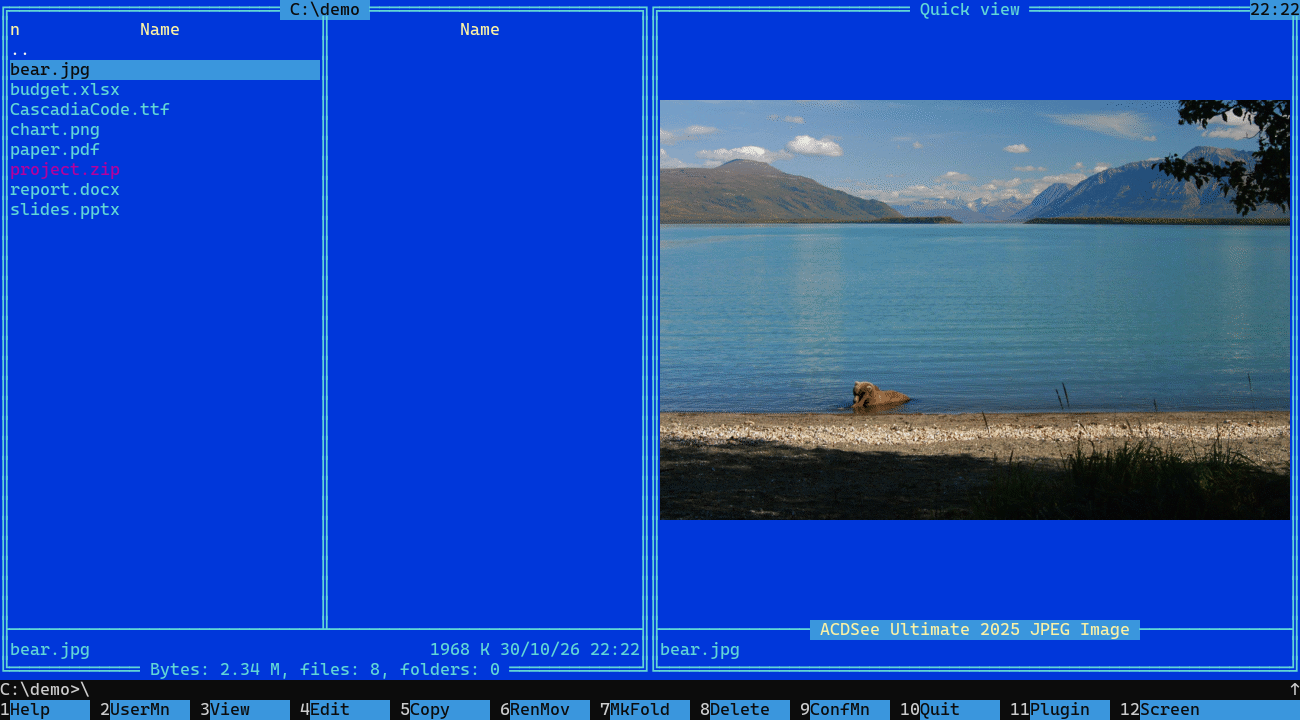
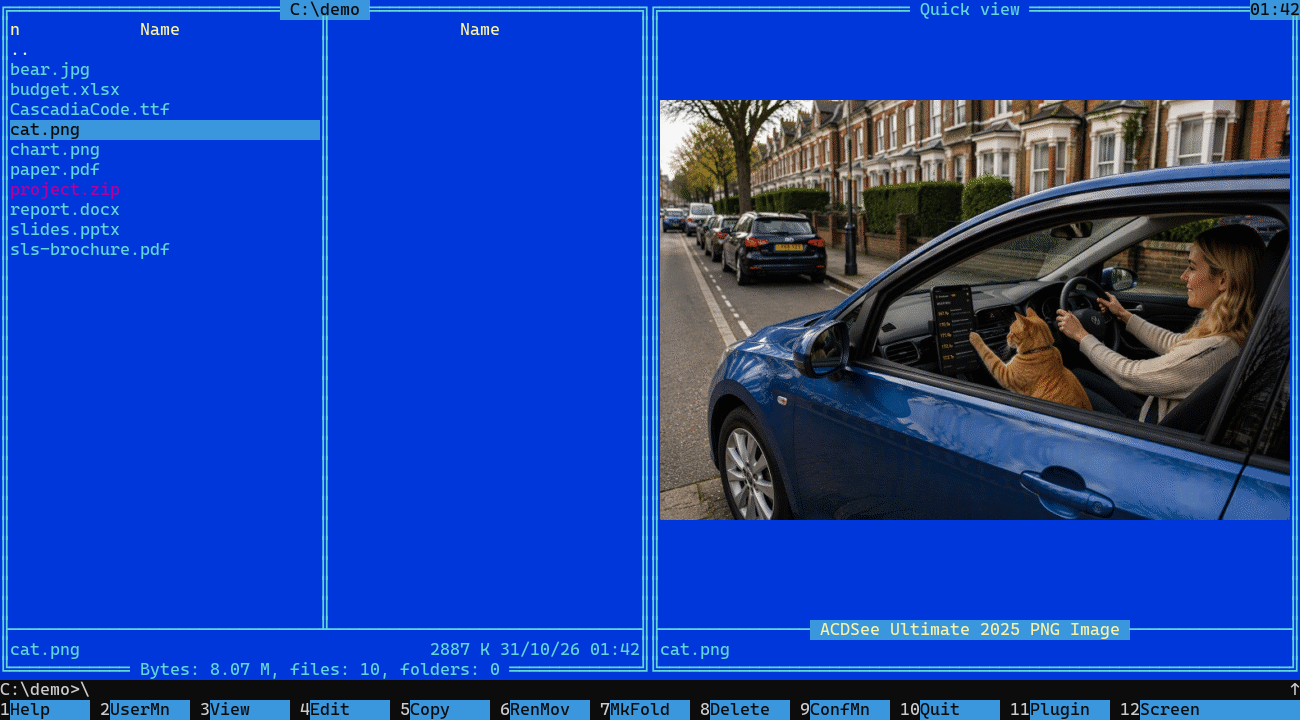
README: a new main picture; credits shortened

diff --git a/docs/images/CREDITS.md b/docs/images/CREDITS.md
@@ -1,17 +1,5 @@
 # Credits of the pictures
 
-The screens (`far-*.png`) are what a real Far Manager with the Peekel plugin wrote into a pseudo-terminal, drawn by a script of the
-development repository (they are not photographs of a screen). The documents in them are invented.
+The screens are Far Manager with the Peekel plugin; the documents in them are invented.
 
-The photograph in `far-quickview.png` (a brown bear at Naknek Lake, Brooks Camp, Katmai National Park, Alaska) is
-"Brown bear Brooks Camp.jpg" by Roy Wood, National Park Service, in the **public domain** (a work of an employee of the United
-States federal government): <https://commons.wikimedia.org/wiki/File:Brown_bear_Brooks_Camp.jpg>. The original is not in this
-repository; the picture shows it scaled down.
-
-The PDF in `far-pdf.png` is the cover of the "SLS Brochure" (Space Launch System, 5 February 2020) of the National
-Aeronautics and Space Administration, a work of the United States federal government, marked **public domain** on Wikimedia
-Commons: <https://commons.wikimedia.org/wiki/File:SLS_Brochure_02-05-20_(656631541636).pdf>. The cover shows the core stage
-for Artemis I in the B-2 test stand at Stennis Space Center (a NASA photograph) and the NASA insignia; Peekel and its authors
-are not connected with NASA and are not endorsed by it. The original is not in this repository.
-
-`far-recovered.png`: a copy of an invented Word document, renamed like a fragment of a disk check.
+`far-pdf.png`: the cover of the NASA "SLS Brochure", public domain: <https://commons.wikimedia.org/wiki/File:SLS_Brochure_02-05-20_(656631541636).pdf>

diff --git a/README.ru.md b/README.ru.md
@@ -2,7 +2,7 @@
 
 [English version](README.md)
 
-![Far Manager: фотография медведя в быстром просмотре, нарисованная плагином Peekel](docs/images/far-quickview.png)
+![Far Manager: картинка в быстром просмотре, нарисованная плагином Peekel](docs/images/far-quickview.png)
 
 **Peekel это плагин быстрого просмотра для Far Manager**: нажмите Ctrl+Q и увидите в панели, что это за файл: картинку, SVG, PDF,
 начало файла Word, PowerPoint или Excel, карточку для шрифтов, программ и архивов.
@@ -23,7 +23,7 @@
 
 ## Как выглядит
 
-Far Manager, быстрый просмотр (Ctrl+Q) с плагином. Фото и PDF в общественном достоянии ([источники](docs/images/CREDITS.md)).
+Far Manager, быстрый просмотр (Ctrl+Q) с плагином. Обложка PDF в общественном достоянии ([источники](docs/images/CREDITS.md)).
 
 **Документ Word**
 

diff --git a/README.md b/README.md
@@ -2,7 +2,7 @@
 
 [Русская версия](README.ru.md)
 
-![Far Manager: a photograph of a bear in the quick view, drawn by the Peekel plugin](docs/images/far-quickview.png)
+![Far Manager: a picture in the quick view, drawn by the Peekel plugin](docs/images/far-quickview.png)
 
 **Peekel is a quick-view plugin for Far Manager**: press Ctrl+Q and see what a file is, in the panel: a picture, SVG, a PDF, the
 start of a Word, PowerPoint or Excel file, and a card for fonts, programs and archives.
@@ -24,7 +24,7 @@ A console viewer (for F3, Linux and Midnight Commander) works and is being prepa
 
 ## What it looks like
 
-Far Manager, the quick view (Ctrl+Q) with the plugin. The photo and the PDF are public domain ([credits](docs/images/CREDITS.md)).
+Far Manager, the quick view (Ctrl+Q) with the plugin. The PDF cover is public domain ([credits](docs/images/CREDITS.md)).
 
 **A Word document**
 
